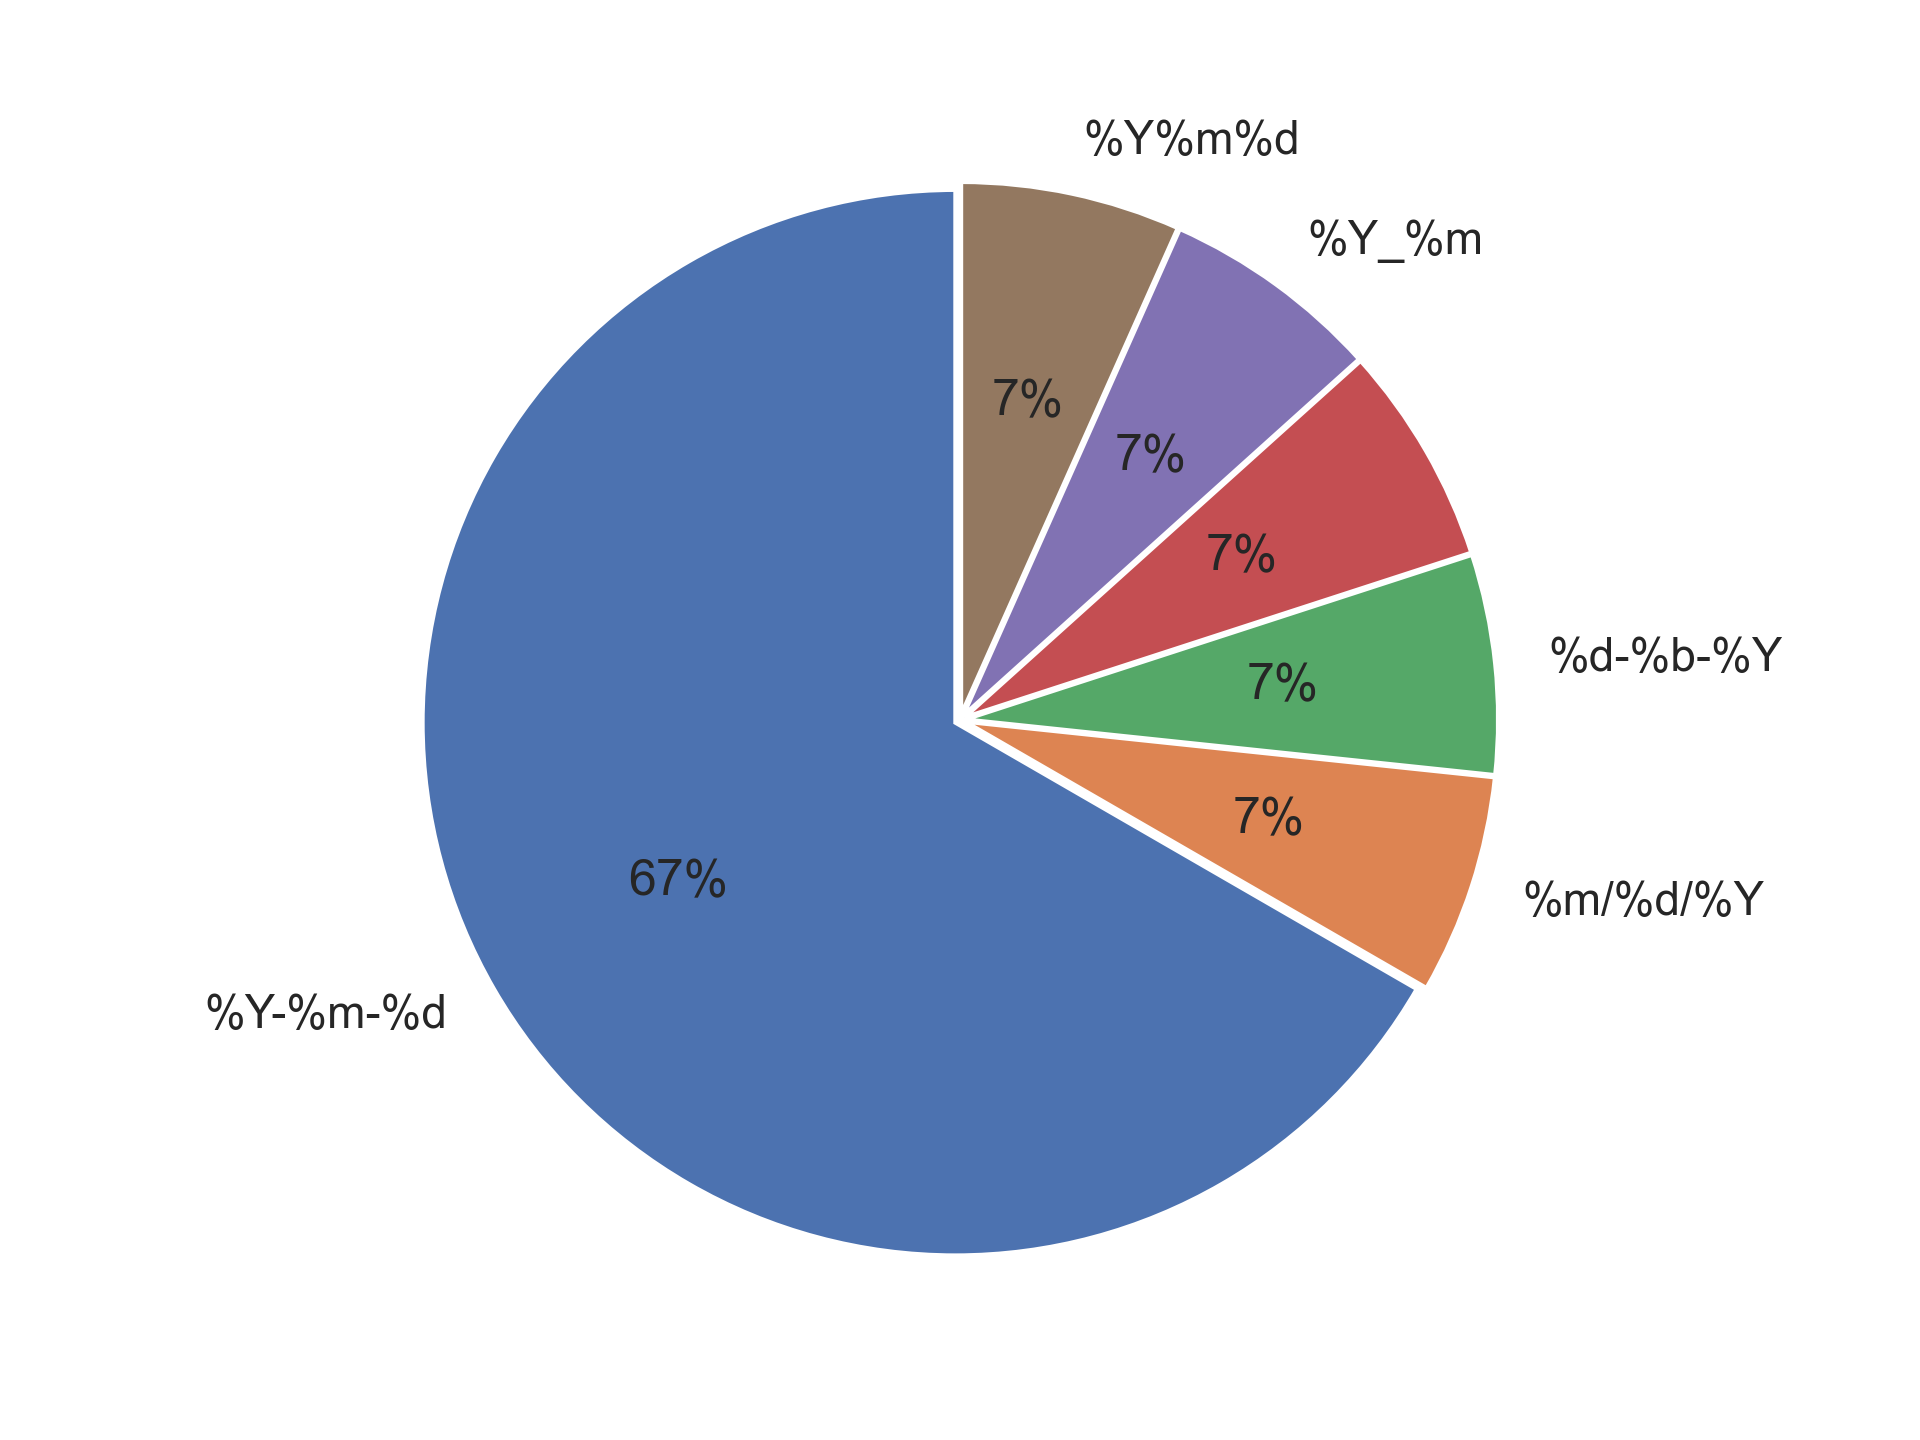
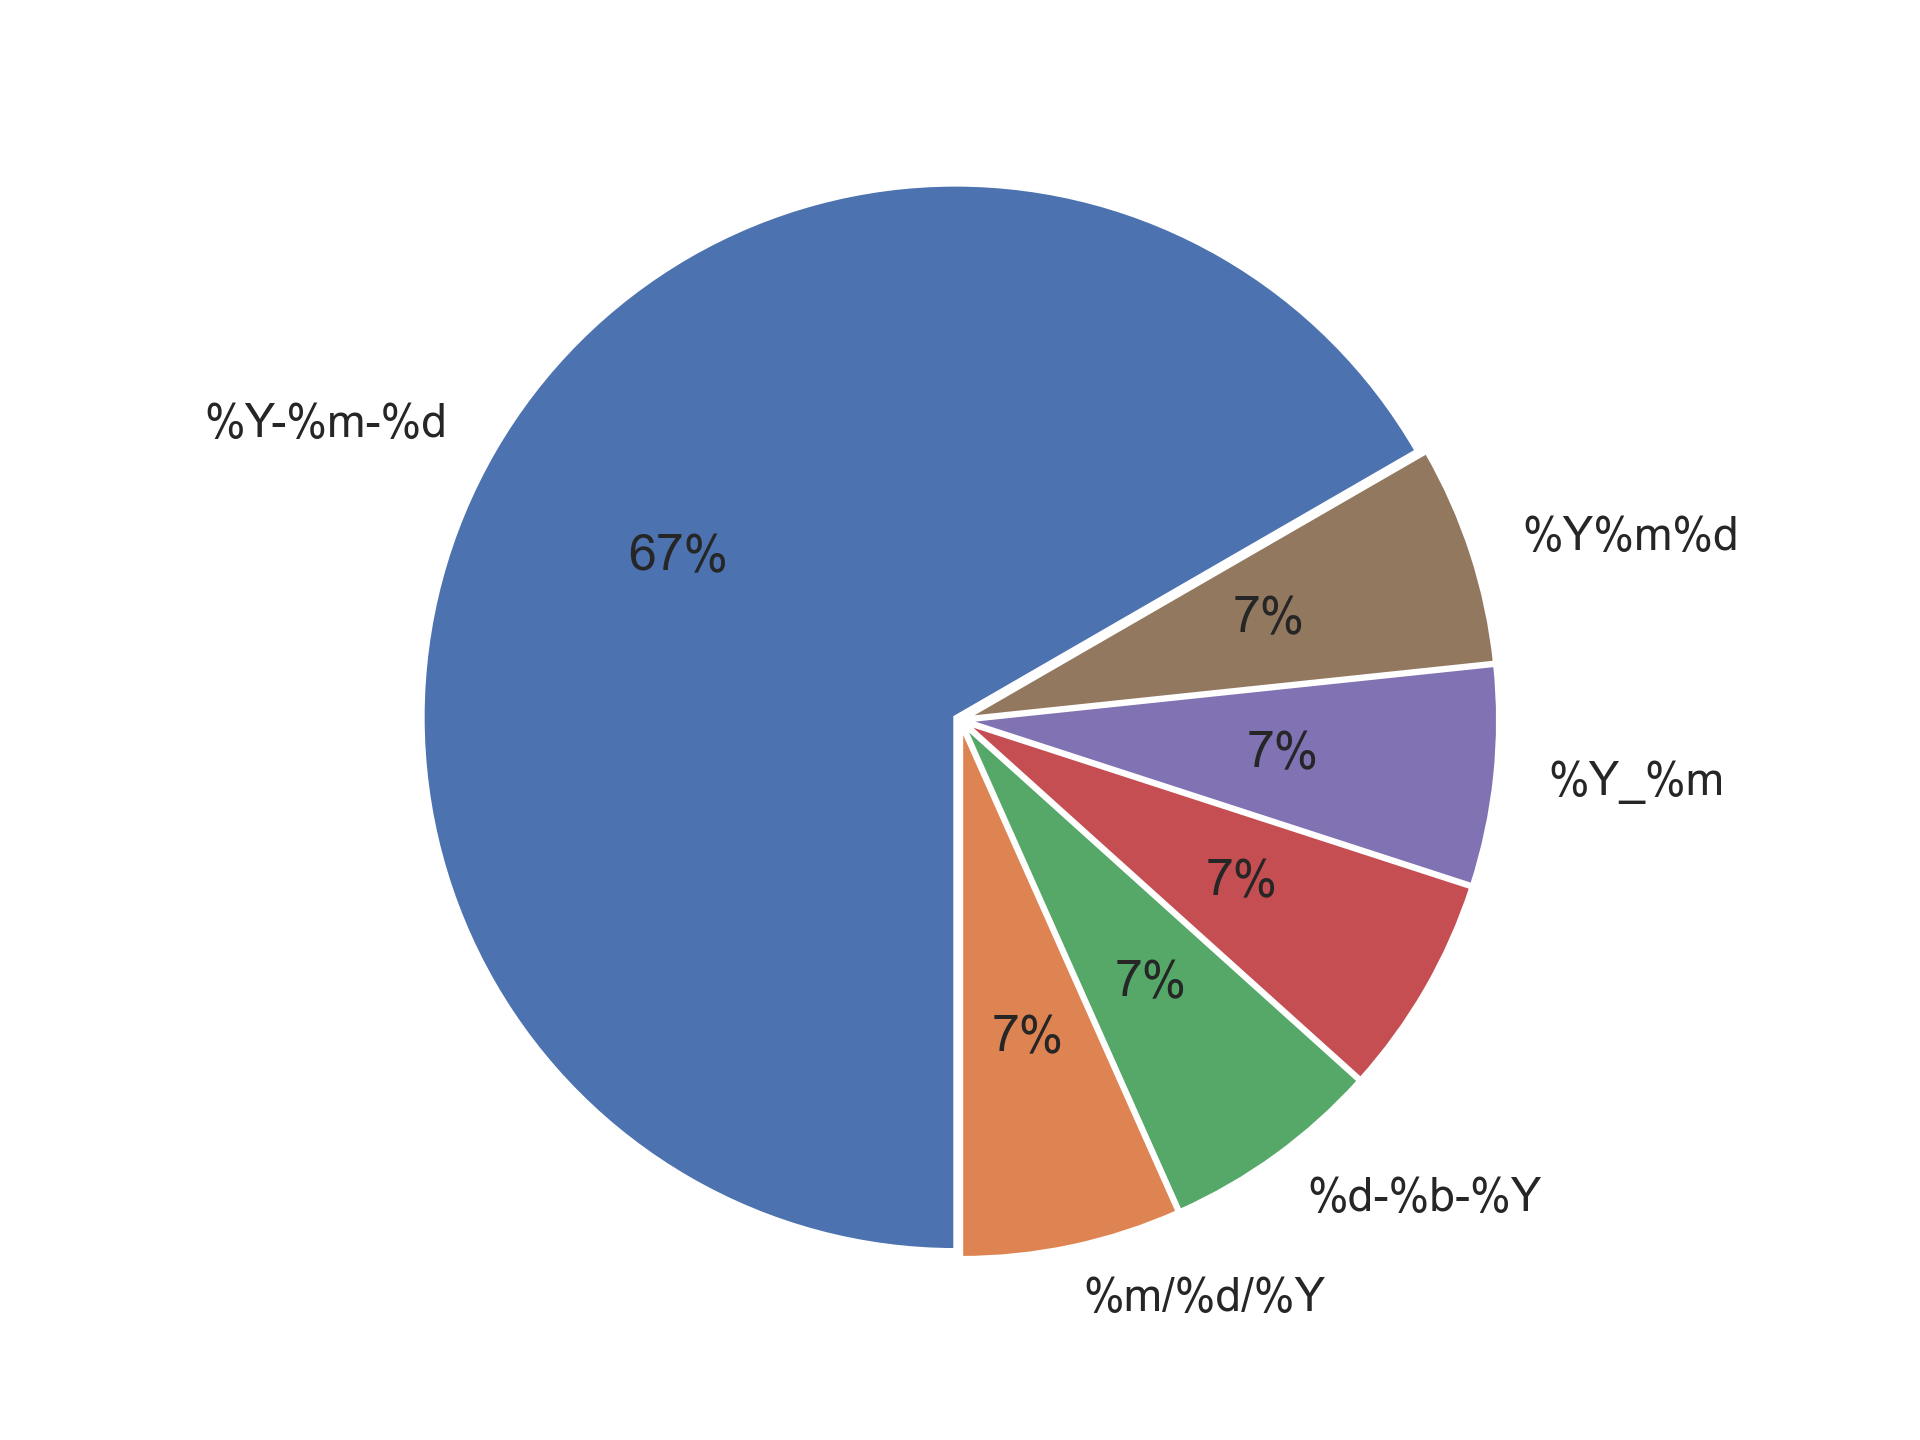
Add release URL chart

diff --git a/src/bioversions/charts.py b/src/bioversions/charts.py
@@ -1,6 +1,5 @@
 # -*- coding: utf-8 -*-
 
-
 """Generation of charts summarizing bioversions."""
 
 import os
@@ -28,7 +27,7 @@ def verion_types_pie_chart():
         counts,
         labels=labels,
         autopct='%1.f%%',
-        startangle=90,
+        startangle=30,
         explode=[0.01 for _ in range(len(counts))],
         # shadow=True,
     )
@@ -52,11 +51,33 @@ def verioning_date_formats_pie_chart():
         counts,
         labels=labels,
         autopct='%1.f%%',
-        startangle=90,
+        startangle=30,
         explode=[0.01 for _ in range(len(counts))],
     )
     fig.tight_layout()
     path = os.path.join(IMG, 'version_date_types.png')
+    plt.savefig(path, dpi=300)
+    plt.close(fig)
+
+
+def has_release_url():
+    """Make a pie chart for how many have a release URL."""
+    counts = Counter(
+        'Has Stable Version URL' if getter.homepage_fmt is not None else 'No Stable Version URL'
+        for getter in getters
+        if getter.version_type != VersionType.unversioned
+    )
+    labels, counts = zip(*counts.most_common())
+    fig, ax = plt.subplots()
+    ax.pie(
+        counts,
+        labels=labels,
+        autopct='%1.f%%',
+        startangle=30,
+        explode=[0.01 for _ in range(len(counts))],
+    )
+    fig.tight_layout()
+    path = os.path.join(IMG, 'has_release_url.png')
     plt.savefig(path, dpi=300)
     plt.close(fig)
 
@@ -66,6 +87,7 @@ def charts():
     """Generate charts for bioversions."""
     verion_types_pie_chart()
     verioning_date_formats_pie_chart()
+    has_release_url()
 
 
 if __name__ == '__main__':

diff --git a/docs/summary.md b/docs/summary.md
@@ -1,8 +1,7 @@
 ---
-layout: page
-title: Summary
-permalink: /summary/
+layout: page title: Summary permalink: /summary/
 ---
+
 ## Version Types
 
 The majority of databases use calendar versioning - this is highly skewed by the abundance of calendar versioning used
@@ -17,3 +16,11 @@ from using semantic versioning.
 While the ISO-8601 format of `YYYY-MM-DD` is a standard, many databases manage to chose alternative date formats.
 
 <img src="https://raw.githubusercontent.com/cthoyt/bioversions/main/docs/img/version_date_types.png" alt="Date Version Types"/>
+
+## Has Stable URL for Each Release
+
+It's not enough just to assign a version string to each release of data, but also for it to be possible to download a
+given version of the data after it's been released. This chart shows (for versioned data) how many have stable URLs for
+past versions of the data.
+
+<img src="https://raw.githubusercontent.com/cthoyt/bioversions/main/docs/img/has_release_url.png" alt="Has Stable URL"/>
